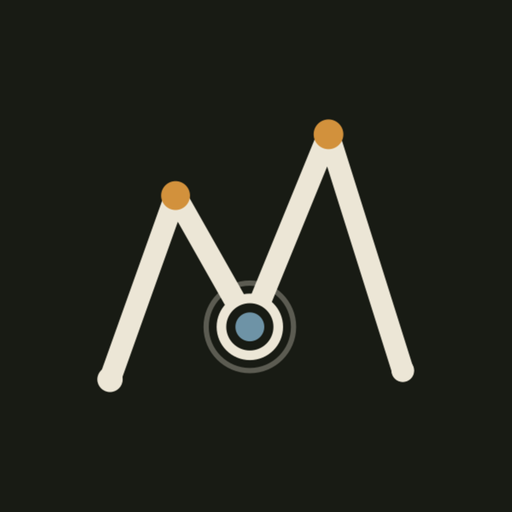
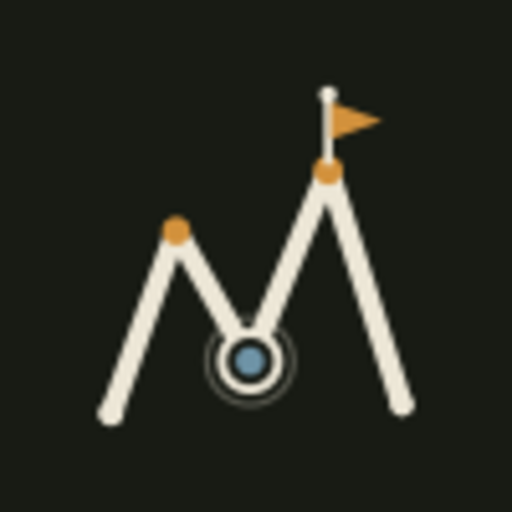
Add summit flag to Muster mark across all instances
User updated the Muster logo to add a small flag on the right peak and
wanted it reflected everywhere the mark appears.

Flag = cream pole from the right peak (67,20) up to y~2.8, cream knob
(circle cx=67 cy=2.6 r=2), orange right-pointing pennant
(M67.6 4.4 L79.5 8.6 L67.6 12.8 Z).

Updated:
- Inline vector marks: client/src/assets/muster-mark.svg (canonical),
  client/index.html first-paint splash, client/src/components/MusterSplash.tsx
  (JSX camelCase attrs).
- Marketing site: 10 nav/footer logos (string replace) + animated hero infil
  in marketing-site/index.html (new .ia-summit-flag group, popped at 1560ms,
  added to fade-out + hideMarks reset arrays).
- Regenerated all rasters from rebuilt masters: app icon, favicons (16/32/48
  + .ico), PWA manifest icons, generated-icon, iOS AppIcon-512@2x (opaque),
  iOS Splash.imageset + ios-splash-master (2732), favicons/ set.
- Rebuilt the 7 PWA splash-*.png startup images: they previously still showed
  stale "TacFit" green text and now show the Muster mark on #181B14.
- Bumped icon cache-bust ?v=8 -> ?v=9 in client/index.html.

Deviation: also fixed the stale "TacFit" PWA splash startup images (out of the
literal flag scope) since they were clearly wrong post-rebrand and are splash
surfaces.

Architect review: pass, no blockers.

Changed region(s): [[0.1875, 0.1562, 0.8125, 0.8438]]

diff --git a/marketing-site/index.html b/marketing-site/index.html
@@ -759,7 +759,7 @@
 <nav id="nav">
   <div class="container nav-row">
     <a href="#" class="brand">
-      <svg width="36" height="36" viewBox="0 0 100 100" role="img" aria-label="Muster" style="display:block;flex-shrink:0"><g transform="translate(-0.35,2.25)"><circle cx="49" cy="64" r="10" fill="none" stroke="#ECE6D6" stroke-width="1.2" opacity="0.32"/><path d="M17 76 L32 34 L49 64 L67 20 L84 74" fill="none" stroke="#ECE6D6" stroke-width="5" stroke-linecap="round" stroke-linejoin="round"/><circle cx="17" cy="76" r="2.9" fill="#ECE6D6"/><circle cx="84" cy="74" r="2.6" fill="#ECE6D6"/><circle cx="32" cy="34" r="3.3" fill="#D2913C"/><circle cx="67" cy="20" r="3.4" fill="#D2913C"/><circle cx="49" cy="64" r="6.5" fill="#181B14" stroke="#ECE6D6" stroke-width="2.2"/><circle cx="49" cy="64" r="3.3" fill="#6E93A6"/></g></svg>
+      <svg width="36" height="36" viewBox="0 0 100 100" role="img" aria-label="Muster" style="display:block;flex-shrink:0"><g transform="translate(-0.35,2.25)"><circle cx="49" cy="64" r="10" fill="none" stroke="#ECE6D6" stroke-width="1.2" opacity="0.32"/><path d="M17 76 L32 34 L49 64 L67 20 L84 74" fill="none" stroke="#ECE6D6" stroke-width="5" stroke-linecap="round" stroke-linejoin="round"/><circle cx="17" cy="76" r="2.9" fill="#ECE6D6"/><circle cx="84" cy="74" r="2.6" fill="#ECE6D6"/><circle cx="32" cy="34" r="3.3" fill="#D2913C"/><circle cx="67" cy="20" r="3.4" fill="#D2913C"/><line x1="67" y1="18" x2="67" y2="2.8" stroke="#ECE6D6" stroke-width="2" stroke-linecap="round"/><path d="M67.6 4.4 L79.5 8.6 L67.6 12.8 Z" fill="#D2913C"/><circle cx="67" cy="2.6" r="2" fill="#ECE6D6"/><circle cx="49" cy="64" r="6.5" fill="#181B14" stroke="#ECE6D6" stroke-width="2.2"/><circle cx="49" cy="64" r="3.3" fill="#6E93A6"/></g></svg>
       Muster
     </a>
     <div class="nav-links">
@@ -1108,6 +1108,11 @@
           <circle class="ia-pop ia-end"    cx="84" cy="74" r="2.6" fill="#ECE6D6"/>
           <circle class="ia-pop ia-left"   cx="32" cy="34" r="3.3" fill="#D2913C"/>
           <circle class="ia-pop ia-summit" cx="67" cy="20" r="3.4" fill="#D2913C"/>
+          <g class="ia-pop ia-summit-flag" style="transform-box:fill-box;transform-origin:67px 20px;">
+            <line x1="67" y1="18" x2="67" y2="2.8" stroke="#ECE6D6" stroke-width="2" stroke-linecap="round"/>
+            <path d="M67.6 4.4 L79.5 8.6 L67.6 12.8 Z" fill="#D2913C"/>
+            <circle cx="67" cy="2.6" r="2" fill="#ECE6D6"/>
+          </g>
           <!-- signal pulse from the muster point -->
           <circle class="ia-pulse" cx="49" cy="64" r="6.5" fill="none" stroke="#ECE6D6" stroke-width="1.5"/>
           <!-- the beacon: the muster point -->
@@ -1467,7 +1472,7 @@
 <footer>
   <div class="container foot-row">
     <div class="brand">
-      <svg width="28" height="28" viewBox="0 0 100 100" role="img" aria-label="Muster" style="display:block;flex-shrink:0"><g transform="translate(-0.35,2.25)"><circle cx="49" cy="64" r="10" fill="none" stroke="#ECE6D6" stroke-width="1.2" opacity="0.32"/><path d="M17 76 L32 34 L49 64 L67 20 L84 74" fill="none" stroke="#ECE6D6" stroke-width="5" stroke-linecap="round" stroke-linejoin="round"/><circle cx="17" cy="76" r="2.9" fill="#ECE6D6"/><circle cx="84" cy="74" r="2.6" fill="#ECE6D6"/><circle cx="32" cy="34" r="3.3" fill="#D2913C"/><circle cx="67" cy="20" r="3.4" fill="#D2913C"/><circle cx="49" cy="64" r="6.5" fill="#181B14" stroke="#ECE6D6" stroke-width="2.2"/><circle cx="49" cy="64" r="3.3" fill="#6E93A6"/></g></svg>
+      <svg width="28" height="28" viewBox="0 0 100 100" role="img" aria-label="Muster" style="display:block;flex-shrink:0"><g transform="translate(-0.35,2.25)"><circle cx="49" cy="64" r="10" fill="none" stroke="#ECE6D6" stroke-width="1.2" opacity="0.32"/><path d="M17 76 L32 34 L49 64 L67 20 L84 74" fill="none" stroke="#ECE6D6" stroke-width="5" stroke-linecap="round" stroke-linejoin="round"/><circle cx="17" cy="76" r="2.9" fill="#ECE6D6"/><circle cx="84" cy="74" r="2.6" fill="#ECE6D6"/><circle cx="32" cy="34" r="3.3" fill="#D2913C"/><circle cx="67" cy="20" r="3.4" fill="#D2913C"/><line x1="67" y1="18" x2="67" y2="2.8" stroke="#ECE6D6" stroke-width="2" stroke-linecap="round"/><path d="M67.6 4.4 L79.5 8.6 L67.6 12.8 Z" fill="#D2913C"/><circle cx="67" cy="2.6" r="2" fill="#ECE6D6"/><circle cx="49" cy="64" r="6.5" fill="#181B14" stroke="#ECE6D6" stroke-width="2.2"/><circle cx="49" cy="64" r="3.3" fill="#6E93A6"/></g></svg>
       <span style="font-size:15px;">© 2026 Muster</span>
     </div>
     <div class="foot-links">
@@ -1875,6 +1880,7 @@
     pop('.ia-left', 690);
     pop('.ia-beacon', 980);
     pop('.ia-summit', 1410);
+    pop('.ia-summit-flag', 1560);
     pop('.ia-end', 1900);
     // the muster point ignites
     pulse(2150); pulse(2520);
@@ -1884,7 +1890,7 @@
     // are already hidden when the next cycle's reset fires — this leaves a clean
     // blank frame at the seam instead of a leftover lone white dot (the M's
     // bottom-right endpoint). fill:'forwards' so it has no effect until its delay.
-    ['.ia-trail', '.ia-start', '.ia-end', '.ia-left', '.ia-summit', '.ia-beacon'].forEach(function (s) {
+    ['.ia-trail', '.ia-start', '.ia-end', '.ia-left', '.ia-summit', '.ia-summit-flag', '.ia-beacon'].forEach(function (s) {
       var el = q(s);
       if (el) A(el, [{ opacity: 1 }, { opacity: 0 }], { duration: 340, delay: 6000, easing: 'ease-in', fill: 'forwards' });
     });
@@ -1901,7 +1907,7 @@
   function hideMarks() {
     // Force every marker hidden at the loop seam so no "popped" frame (e.g. the
     // white dot at the bottom-right of the M) leaks for a frame between cycles.
-    ['.ia-start', '.ia-end', '.ia-left', '.ia-summit', '.ia-beacon', '.ia-pulse'].forEach(function (s) {
+    ['.ia-start', '.ia-end', '.ia-left', '.ia-summit', '.ia-summit-flag', '.ia-beacon', '.ia-pulse'].forEach(function (s) {
       var el = q(s); if (el) el.style.opacity = '0';
     });
   }

diff --git a/marketing-site/contact-us.html b/marketing-site/contact-us.html
@@ -148,7 +148,7 @@
 <nav id="nav">
   <div class="container nav-row">
     <a href="/" class="brand">
-      <svg width="36" height="36" viewBox="0 0 100 100" role="img" aria-label="Muster" style="display:block;flex-shrink:0"><g transform="translate(-0.35,2.25)"><circle cx="49" cy="64" r="10" fill="none" stroke="#ECE6D6" stroke-width="1.2" opacity="0.32"/><path d="M17 76 L32 34 L49 64 L67 20 L84 74" fill="none" stroke="#ECE6D6" stroke-width="5" stroke-linecap="round" stroke-linejoin="round"/><circle cx="17" cy="76" r="2.9" fill="#ECE6D6"/><circle cx="84" cy="74" r="2.6" fill="#ECE6D6"/><circle cx="32" cy="34" r="3.3" fill="#D2913C"/><circle cx="67" cy="20" r="3.4" fill="#D2913C"/><circle cx="49" cy="64" r="6.5" fill="#181B14" stroke="#ECE6D6" stroke-width="2.2"/><circle cx="49" cy="64" r="3.3" fill="#6E93A6"/></g></svg>
+      <svg width="36" height="36" viewBox="0 0 100 100" role="img" aria-label="Muster" style="display:block;flex-shrink:0"><g transform="translate(-0.35,2.25)"><circle cx="49" cy="64" r="10" fill="none" stroke="#ECE6D6" stroke-width="1.2" opacity="0.32"/><path d="M17 76 L32 34 L49 64 L67 20 L84 74" fill="none" stroke="#ECE6D6" stroke-width="5" stroke-linecap="round" stroke-linejoin="round"/><circle cx="17" cy="76" r="2.9" fill="#ECE6D6"/><circle cx="84" cy="74" r="2.6" fill="#ECE6D6"/><circle cx="32" cy="34" r="3.3" fill="#D2913C"/><circle cx="67" cy="20" r="3.4" fill="#D2913C"/><line x1="67" y1="18" x2="67" y2="2.8" stroke="#ECE6D6" stroke-width="2" stroke-linecap="round"/><path d="M67.6 4.4 L79.5 8.6 L67.6 12.8 Z" fill="#D2913C"/><circle cx="67" cy="2.6" r="2" fill="#ECE6D6"/><circle cx="49" cy="64" r="6.5" fill="#181B14" stroke="#ECE6D6" stroke-width="2.2"/><circle cx="49" cy="64" r="3.3" fill="#6E93A6"/></g></svg>
       Muster
     </a>
     <div class="nav-links">
@@ -235,7 +235,7 @@
 <footer>
   <div class="container foot-row">
     <div class="brand">
-      <svg width="28" height="28" viewBox="0 0 100 100" role="img" aria-label="Muster" style="display:block;flex-shrink:0"><g transform="translate(-0.35,2.25)"><circle cx="49" cy="64" r="10" fill="none" stroke="#ECE6D6" stroke-width="1.2" opacity="0.32"/><path d="M17 76 L32 34 L49 64 L67 20 L84 74" fill="none" stroke="#ECE6D6" stroke-width="5" stroke-linecap="round" stroke-linejoin="round"/><circle cx="17" cy="76" r="2.9" fill="#ECE6D6"/><circle cx="84" cy="74" r="2.6" fill="#ECE6D6"/><circle cx="32" cy="34" r="3.3" fill="#D2913C"/><circle cx="67" cy="20" r="3.4" fill="#D2913C"/><circle cx="49" cy="64" r="6.5" fill="#181B14" stroke="#ECE6D6" stroke-width="2.2"/><circle cx="49" cy="64" r="3.3" fill="#6E93A6"/></g></svg>
+      <svg width="28" height="28" viewBox="0 0 100 100" role="img" aria-label="Muster" style="display:block;flex-shrink:0"><g transform="translate(-0.35,2.25)"><circle cx="49" cy="64" r="10" fill="none" stroke="#ECE6D6" stroke-width="1.2" opacity="0.32"/><path d="M17 76 L32 34 L49 64 L67 20 L84 74" fill="none" stroke="#ECE6D6" stroke-width="5" stroke-linecap="round" stroke-linejoin="round"/><circle cx="17" cy="76" r="2.9" fill="#ECE6D6"/><circle cx="84" cy="74" r="2.6" fill="#ECE6D6"/><circle cx="32" cy="34" r="3.3" fill="#D2913C"/><circle cx="67" cy="20" r="3.4" fill="#D2913C"/><line x1="67" y1="18" x2="67" y2="2.8" stroke="#ECE6D6" stroke-width="2" stroke-linecap="round"/><path d="M67.6 4.4 L79.5 8.6 L67.6 12.8 Z" fill="#D2913C"/><circle cx="67" cy="2.6" r="2" fill="#ECE6D6"/><circle cx="49" cy="64" r="6.5" fill="#181B14" stroke="#ECE6D6" stroke-width="2.2"/><circle cx="49" cy="64" r="3.3" fill="#6E93A6"/></g></svg>
       <span style="font-size:15px;">© 2026 Muster</span>
     </div>
     <div class="foot-links">

diff --git a/marketing-site/founder.html b/marketing-site/founder.html
@@ -155,7 +155,7 @@
 <nav id="nav">
   <div class="container nav-row">
     <a href="/" class="brand">
-      <svg width="36" height="36" viewBox="0 0 100 100" role="img" aria-label="Muster" style="display:block;flex-shrink:0"><g transform="translate(-0.35,2.25)"><circle cx="49" cy="64" r="10" fill="none" stroke="#ECE6D6" stroke-width="1.2" opacity="0.32"/><path d="M17 76 L32 34 L49 64 L67 20 L84 74" fill="none" stroke="#ECE6D6" stroke-width="5" stroke-linecap="round" stroke-linejoin="round"/><circle cx="17" cy="76" r="2.9" fill="#ECE6D6"/><circle cx="84" cy="74" r="2.6" fill="#ECE6D6"/><circle cx="32" cy="34" r="3.3" fill="#D2913C"/><circle cx="67" cy="20" r="3.4" fill="#D2913C"/><circle cx="49" cy="64" r="6.5" fill="#181B14" stroke="#ECE6D6" stroke-width="2.2"/><circle cx="49" cy="64" r="3.3" fill="#6E93A6"/></g></svg>
+      <svg width="36" height="36" viewBox="0 0 100 100" role="img" aria-label="Muster" style="display:block;flex-shrink:0"><g transform="translate(-0.35,2.25)"><circle cx="49" cy="64" r="10" fill="none" stroke="#ECE6D6" stroke-width="1.2" opacity="0.32"/><path d="M17 76 L32 34 L49 64 L67 20 L84 74" fill="none" stroke="#ECE6D6" stroke-width="5" stroke-linecap="round" stroke-linejoin="round"/><circle cx="17" cy="76" r="2.9" fill="#ECE6D6"/><circle cx="84" cy="74" r="2.6" fill="#ECE6D6"/><circle cx="32" cy="34" r="3.3" fill="#D2913C"/><circle cx="67" cy="20" r="3.4" fill="#D2913C"/><line x1="67" y1="18" x2="67" y2="2.8" stroke="#ECE6D6" stroke-width="2" stroke-linecap="round"/><path d="M67.6 4.4 L79.5 8.6 L67.6 12.8 Z" fill="#D2913C"/><circle cx="67" cy="2.6" r="2" fill="#ECE6D6"/><circle cx="49" cy="64" r="6.5" fill="#181B14" stroke="#ECE6D6" stroke-width="2.2"/><circle cx="49" cy="64" r="3.3" fill="#6E93A6"/></g></svg>
       Muster
     </a>
     <div class="nav-links">
@@ -256,7 +256,7 @@
 <footer>
   <div class="container foot-row">
     <div class="brand">
-      <svg width="28" height="28" viewBox="0 0 100 100" role="img" aria-label="Muster" style="display:block;flex-shrink:0"><g transform="translate(-0.35,2.25)"><circle cx="49" cy="64" r="10" fill="none" stroke="#ECE6D6" stroke-width="1.2" opacity="0.32"/><path d="M17 76 L32 34 L49 64 L67 20 L84 74" fill="none" stroke="#ECE6D6" stroke-width="5" stroke-linecap="round" stroke-linejoin="round"/><circle cx="17" cy="76" r="2.9" fill="#ECE6D6"/><circle cx="84" cy="74" r="2.6" fill="#ECE6D6"/><circle cx="32" cy="34" r="3.3" fill="#D2913C"/><circle cx="67" cy="20" r="3.4" fill="#D2913C"/><circle cx="49" cy="64" r="6.5" fill="#181B14" stroke="#ECE6D6" stroke-width="2.2"/><circle cx="49" cy="64" r="3.3" fill="#6E93A6"/></g></svg>
+      <svg width="28" height="28" viewBox="0 0 100 100" role="img" aria-label="Muster" style="display:block;flex-shrink:0"><g transform="translate(-0.35,2.25)"><circle cx="49" cy="64" r="10" fill="none" stroke="#ECE6D6" stroke-width="1.2" opacity="0.32"/><path d="M17 76 L32 34 L49 64 L67 20 L84 74" fill="none" stroke="#ECE6D6" stroke-width="5" stroke-linecap="round" stroke-linejoin="round"/><circle cx="17" cy="76" r="2.9" fill="#ECE6D6"/><circle cx="84" cy="74" r="2.6" fill="#ECE6D6"/><circle cx="32" cy="34" r="3.3" fill="#D2913C"/><circle cx="67" cy="20" r="3.4" fill="#D2913C"/><line x1="67" y1="18" x2="67" y2="2.8" stroke="#ECE6D6" stroke-width="2" stroke-linecap="round"/><path d="M67.6 4.4 L79.5 8.6 L67.6 12.8 Z" fill="#D2913C"/><circle cx="67" cy="2.6" r="2" fill="#ECE6D6"/><circle cx="49" cy="64" r="6.5" fill="#181B14" stroke="#ECE6D6" stroke-width="2.2"/><circle cx="49" cy="64" r="3.3" fill="#6E93A6"/></g></svg>
       <span style="font-size:15px;">© 2026 Muster</span>
     </div>
     <div class="foot-links">

diff --git a/marketing-site/partners.html b/marketing-site/partners.html
@@ -163,7 +163,7 @@
 <nav id="nav">
   <div class="container nav-row">
     <a href="/" class="brand">
-      <svg width="36" height="36" viewBox="0 0 100 100" role="img" aria-label="Muster" style="display:block;flex-shrink:0"><g transform="translate(-0.35,2.25)"><circle cx="49" cy="64" r="10" fill="none" stroke="#ECE6D6" stroke-width="1.2" opacity="0.32"/><path d="M17 76 L32 34 L49 64 L67 20 L84 74" fill="none" stroke="#ECE6D6" stroke-width="5" stroke-linecap="round" stroke-linejoin="round"/><circle cx="17" cy="76" r="2.9" fill="#ECE6D6"/><circle cx="84" cy="74" r="2.6" fill="#ECE6D6"/><circle cx="32" cy="34" r="3.3" fill="#D2913C"/><circle cx="67" cy="20" r="3.4" fill="#D2913C"/><circle cx="49" cy="64" r="6.5" fill="#181B14" stroke="#ECE6D6" stroke-width="2.2"/><circle cx="49" cy="64" r="3.3" fill="#6E93A6"/></g></svg>
+      <svg width="36" height="36" viewBox="0 0 100 100" role="img" aria-label="Muster" style="display:block;flex-shrink:0"><g transform="translate(-0.35,2.25)"><circle cx="49" cy="64" r="10" fill="none" stroke="#ECE6D6" stroke-width="1.2" opacity="0.32"/><path d="M17 76 L32 34 L49 64 L67 20 L84 74" fill="none" stroke="#ECE6D6" stroke-width="5" stroke-linecap="round" stroke-linejoin="round"/><circle cx="17" cy="76" r="2.9" fill="#ECE6D6"/><circle cx="84" cy="74" r="2.6" fill="#ECE6D6"/><circle cx="32" cy="34" r="3.3" fill="#D2913C"/><circle cx="67" cy="20" r="3.4" fill="#D2913C"/><line x1="67" y1="18" x2="67" y2="2.8" stroke="#ECE6D6" stroke-width="2" stroke-linecap="round"/><path d="M67.6 4.4 L79.5 8.6 L67.6 12.8 Z" fill="#D2913C"/><circle cx="67" cy="2.6" r="2" fill="#ECE6D6"/><circle cx="49" cy="64" r="6.5" fill="#181B14" stroke="#ECE6D6" stroke-width="2.2"/><circle cx="49" cy="64" r="3.3" fill="#6E93A6"/></g></svg>
       Muster
     </a>
     <div class="nav-links">
@@ -264,7 +264,7 @@
 <footer>
   <div class="container foot-row">
     <div class="brand">
-      <svg width="28" height="28" viewBox="0 0 100 100" role="img" aria-label="Muster" style="display:block;flex-shrink:0"><g transform="translate(-0.35,2.25)"><circle cx="49" cy="64" r="10" fill="none" stroke="#ECE6D6" stroke-width="1.2" opacity="0.32"/><path d="M17 76 L32 34 L49 64 L67 20 L84 74" fill="none" stroke="#ECE6D6" stroke-width="5" stroke-linecap="round" stroke-linejoin="round"/><circle cx="17" cy="76" r="2.9" fill="#ECE6D6"/><circle cx="84" cy="74" r="2.6" fill="#ECE6D6"/><circle cx="32" cy="34" r="3.3" fill="#D2913C"/><circle cx="67" cy="20" r="3.4" fill="#D2913C"/><circle cx="49" cy="64" r="6.5" fill="#181B14" stroke="#ECE6D6" stroke-width="2.2"/><circle cx="49" cy="64" r="3.3" fill="#6E93A6"/></g></svg>
+      <svg width="28" height="28" viewBox="0 0 100 100" role="img" aria-label="Muster" style="display:block;flex-shrink:0"><g transform="translate(-0.35,2.25)"><circle cx="49" cy="64" r="10" fill="none" stroke="#ECE6D6" stroke-width="1.2" opacity="0.32"/><path d="M17 76 L32 34 L49 64 L67 20 L84 74" fill="none" stroke="#ECE6D6" stroke-width="5" stroke-linecap="round" stroke-linejoin="round"/><circle cx="17" cy="76" r="2.9" fill="#ECE6D6"/><circle cx="84" cy="74" r="2.6" fill="#ECE6D6"/><circle cx="32" cy="34" r="3.3" fill="#D2913C"/><circle cx="67" cy="20" r="3.4" fill="#D2913C"/><line x1="67" y1="18" x2="67" y2="2.8" stroke="#ECE6D6" stroke-width="2" stroke-linecap="round"/><path d="M67.6 4.4 L79.5 8.6 L67.6 12.8 Z" fill="#D2913C"/><circle cx="67" cy="2.6" r="2" fill="#ECE6D6"/><circle cx="49" cy="64" r="6.5" fill="#181B14" stroke="#ECE6D6" stroke-width="2.2"/><circle cx="49" cy="64" r="3.3" fill="#6E93A6"/></g></svg>
       <span style="font-size:15px;">© 2026 Muster</span>
     </div>
     <div class="foot-links">

diff --git a/marketing-site/privacy.html b/marketing-site/privacy.html
@@ -121,7 +121,7 @@
 <nav>
   <div class="nav-row">
     <a href="/" class="brand">
-      <svg width="36" height="36" viewBox="0 0 100 100" role="img" aria-label="Muster" style="display:block;flex-shrink:0"><g transform="translate(-0.35,2.25)"><circle cx="49" cy="64" r="10" fill="none" stroke="#ECE6D6" stroke-width="1.2" opacity="0.32"/><path d="M17 76 L32 34 L49 64 L67 20 L84 74" fill="none" stroke="#ECE6D6" stroke-width="5" stroke-linecap="round" stroke-linejoin="round"/><circle cx="17" cy="76" r="2.9" fill="#ECE6D6"/><circle cx="84" cy="74" r="2.6" fill="#ECE6D6"/><circle cx="32" cy="34" r="3.3" fill="#D2913C"/><circle cx="67" cy="20" r="3.4" fill="#D2913C"/><circle cx="49" cy="64" r="6.5" fill="#181B14" stroke="#ECE6D6" stroke-width="2.2"/><circle cx="49" cy="64" r="3.3" fill="#6E93A6"/></g></svg>
+      <svg width="36" height="36" viewBox="0 0 100 100" role="img" aria-label="Muster" style="display:block;flex-shrink:0"><g transform="translate(-0.35,2.25)"><circle cx="49" cy="64" r="10" fill="none" stroke="#ECE6D6" stroke-width="1.2" opacity="0.32"/><path d="M17 76 L32 34 L49 64 L67 20 L84 74" fill="none" stroke="#ECE6D6" stroke-width="5" stroke-linecap="round" stroke-linejoin="round"/><circle cx="17" cy="76" r="2.9" fill="#ECE6D6"/><circle cx="84" cy="74" r="2.6" fill="#ECE6D6"/><circle cx="32" cy="34" r="3.3" fill="#D2913C"/><circle cx="67" cy="20" r="3.4" fill="#D2913C"/><line x1="67" y1="18" x2="67" y2="2.8" stroke="#ECE6D6" stroke-width="2" stroke-linecap="round"/><path d="M67.6 4.4 L79.5 8.6 L67.6 12.8 Z" fill="#D2913C"/><circle cx="67" cy="2.6" r="2" fill="#ECE6D6"/><circle cx="49" cy="64" r="6.5" fill="#181B14" stroke="#ECE6D6" stroke-width="2.2"/><circle cx="49" cy="64" r="3.3" fill="#6E93A6"/></g></svg>
       Muster
     </a>
     <div class="nav-links">
@@ -278,7 +278,7 @@
 <footer>
   <div class="foot-row">
     <div class="brand">
-      <svg width="28" height="28" viewBox="0 0 100 100" role="img" aria-label="Muster" style="display:block;flex-shrink:0"><g transform="translate(-0.35,2.25)"><circle cx="49" cy="64" r="10" fill="none" stroke="#ECE6D6" stroke-width="1.2" opacity="0.32"/><path d="M17 76 L32 34 L49 64 L67 20 L84 74" fill="none" stroke="#ECE6D6" stroke-width="5" stroke-linecap="round" stroke-linejoin="round"/><circle cx="17" cy="76" r="2.9" fill="#ECE6D6"/><circle cx="84" cy="74" r="2.6" fill="#ECE6D6"/><circle cx="32" cy="34" r="3.3" fill="#D2913C"/><circle cx="67" cy="20" r="3.4" fill="#D2913C"/><circle cx="49" cy="64" r="6.5" fill="#181B14" stroke="#ECE6D6" stroke-width="2.2"/><circle cx="49" cy="64" r="3.3" fill="#6E93A6"/></g></svg>
+      <svg width="28" height="28" viewBox="0 0 100 100" role="img" aria-label="Muster" style="display:block;flex-shrink:0"><g transform="translate(-0.35,2.25)"><circle cx="49" cy="64" r="10" fill="none" stroke="#ECE6D6" stroke-width="1.2" opacity="0.32"/><path d="M17 76 L32 34 L49 64 L67 20 L84 74" fill="none" stroke="#ECE6D6" stroke-width="5" stroke-linecap="round" stroke-linejoin="round"/><circle cx="17" cy="76" r="2.9" fill="#ECE6D6"/><circle cx="84" cy="74" r="2.6" fill="#ECE6D6"/><circle cx="32" cy="34" r="3.3" fill="#D2913C"/><circle cx="67" cy="20" r="3.4" fill="#D2913C"/><line x1="67" y1="18" x2="67" y2="2.8" stroke="#ECE6D6" stroke-width="2" stroke-linecap="round"/><path d="M67.6 4.4 L79.5 8.6 L67.6 12.8 Z" fill="#D2913C"/><circle cx="67" cy="2.6" r="2" fill="#ECE6D6"/><circle cx="49" cy="64" r="6.5" fill="#181B14" stroke="#ECE6D6" stroke-width="2.2"/><circle cx="49" cy="64" r="3.3" fill="#6E93A6"/></g></svg>
       <span style="font-size:15px;">© 2026 Muster</span>
     </div>
     <div class="foot-links">

diff --git a/client/index.html b/client/index.html
@@ -10,13 +10,13 @@
     <link rel="preconnect" href="https://fonts.googleapis.com" />
     <link rel="preconnect" href="https://fonts.gstatic.com" crossorigin />
     <link href="https://fonts.googleapis.com/css2?family=Inter:wght@400;500;600;700;800;900&display=swap" rel="stylesheet" />
-    <link rel="icon" type="image/png" sizes="32x32" href="/favicon-32x32.png?v=8" />
-    <link rel="icon" type="image/png" sizes="16x16" href="/favicon-16x16.png?v=8" />
-    <link rel="icon" type="image/png" sizes="48x48" href="/favicon-48x48.png?v=8" />
-    <link rel="shortcut icon" href="/favicon-32x32.png?v=8" />
+    <link rel="icon" type="image/png" sizes="32x32" href="/favicon-32x32.png?v=9" />
+    <link rel="icon" type="image/png" sizes="16x16" href="/favicon-16x16.png?v=9" />
+    <link rel="icon" type="image/png" sizes="48x48" href="/favicon-48x48.png?v=9" />
+    <link rel="shortcut icon" href="/favicon-32x32.png?v=9" />
     
     <!-- PWA Manifest -->
-    <link rel="manifest" href="/manifest.json?v=8" />
+    <link rel="manifest" href="/manifest.json?v=9" />
     <meta name="theme-color" content="#D2913C" />
     <meta name="apple-mobile-web-app-capable" content="yes" />
     <meta name="apple-mobile-web-app-status-bar-style" content="black" />
@@ -96,6 +96,9 @@
           <circle cx="84" cy="74" r="2.6" fill="#ECE6D6"/>
           <circle cx="32" cy="34" r="3.3" fill="#D2913C"/>
           <circle cx="67" cy="20" r="3.4" fill="#D2913C"/>
+          <line x1="67" y1="18" x2="67" y2="2.8" stroke="#ECE6D6" stroke-width="2" stroke-linecap="round"/>
+          <path d="M67.6 4.4 L79.5 8.6 L67.6 12.8 Z" fill="#D2913C"/>
+          <circle cx="67" cy="2.6" r="2" fill="#ECE6D6"/>
           <circle cx="49" cy="64" r="6.5" fill="#181B14"/>
           <circle cx="49" cy="64" r="10" fill="none" stroke="#ECE6D6" stroke-width="1.2" opacity="0.32"/>
           <circle cx="49" cy="64" r="6.5" fill="none" stroke="#ECE6D6" stroke-width="2.2"/>

diff --git a/client/src/components/MusterSplash.tsx b/client/src/components/MusterSplash.tsx
@@ -227,6 +227,10 @@ export default function MusterSplash({ onDone }: { onDone: () => void }) {
           <circle cx="84" cy="74" r="2.6" fill="#ECE6D6" />
           <circle cx="32" cy="34" r="3.3" fill="#D2913C" />
           <circle cx="67" cy="20" r="3.4" fill="#D2913C" />
+          {/* summit flag */}
+          <line x1="67" y1="18" x2="67" y2="2.8" stroke="#ECE6D6" strokeWidth="2" strokeLinecap="round" />
+          <path d="M67.6 4.4 L79.5 8.6 L67.6 12.8 Z" fill="#D2913C" />
+          <circle cx="67" cy="2.6" r="2" fill="#ECE6D6" />
           {/* signal pulse from the muster point */}
           <circle
             className="ia-pulse"

diff --git a/.agents/memory/app-icon-pipeline.md b/.agents/memory/app-icon-pipeline.md
@@ -24,3 +24,18 @@ icons that contain transparency. When generating, finish with `-alpha remove -al
 and verify with `magick identify -format '%A'` → must be `Undefined`/`False`, not
 `Blend`/`On`. A transparent PNG mark composited onto an olive square still carries an
 alpha channel unless you strip it.
+
+**Summit flag (added 2026-06-17):** the mark now has a small flag on the RIGHT peak
+(67,20): cream pole up to y≈2.8, cream knob `circle cx=67 cy=2.6 r=2`, orange
+right-pointing pennant `path d="M67.6 4.4 L79.5 8.6 L67.6 12.8 Z"`. The mark is
+DUPLICATED inline in several places that must stay in sync (no shared source) — when
+the mark changes, update ALL of them or they drift:
+`client/src/assets/muster-mark.svg` (canonical, used by nav/login/register),
+`client/index.html` (first-paint splash), `client/src/components/MusterSplash.tsx`
+(JSX — uses camelCase `strokeWidth`/`strokeLinecap`), and the 11 marketing-site
+inline copies (10 nav/footer logos + 1 animated hero infil in `marketing-site/index.html`,
+where the flag is a `.ia-summit-flag` group wired into `pop()`, the fade-out array,
+and `hideMarks()`). Rasters regenerate from `/tmp/icon-master.svg` (icons) and
+`/tmp/splash-master.svg` (splash). Bump `?v=N` in `client/index.html` on icon change.
+The 7 PWA `splash-*.png` startup images were stale "TacFit" green text until this
+change — they now show the Muster mark centered (~42% width) on `#181B14`.
